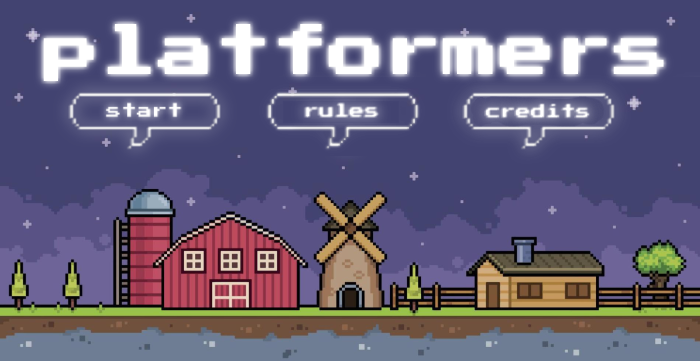
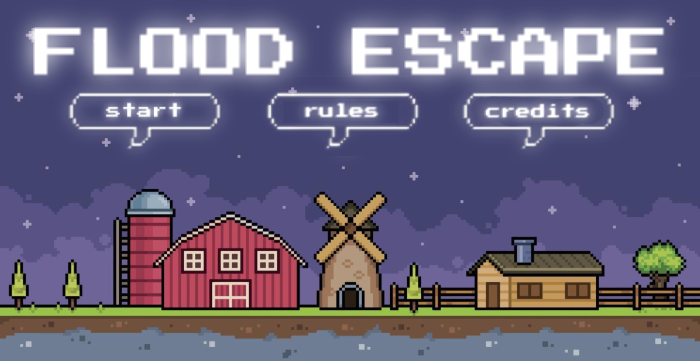
Name change

Changed region(s): [[0.03, 0.0305, 0.96, 0.2438]]

diff --git a/culminating/Main.java b/culminating/Main.java
@@ -33,7 +33,7 @@ public class Main extends JPanel implements KeyListener, MouseListener, Runnable
 
     public Main() {
         // JPanel default settings
-        setPreferredSize(new Dimension(700, 361));
+        setPreferredSize(new Dimension(700, 360));
 
         // Add MouseListener and KeyListener
         this.setFocusable(true);
